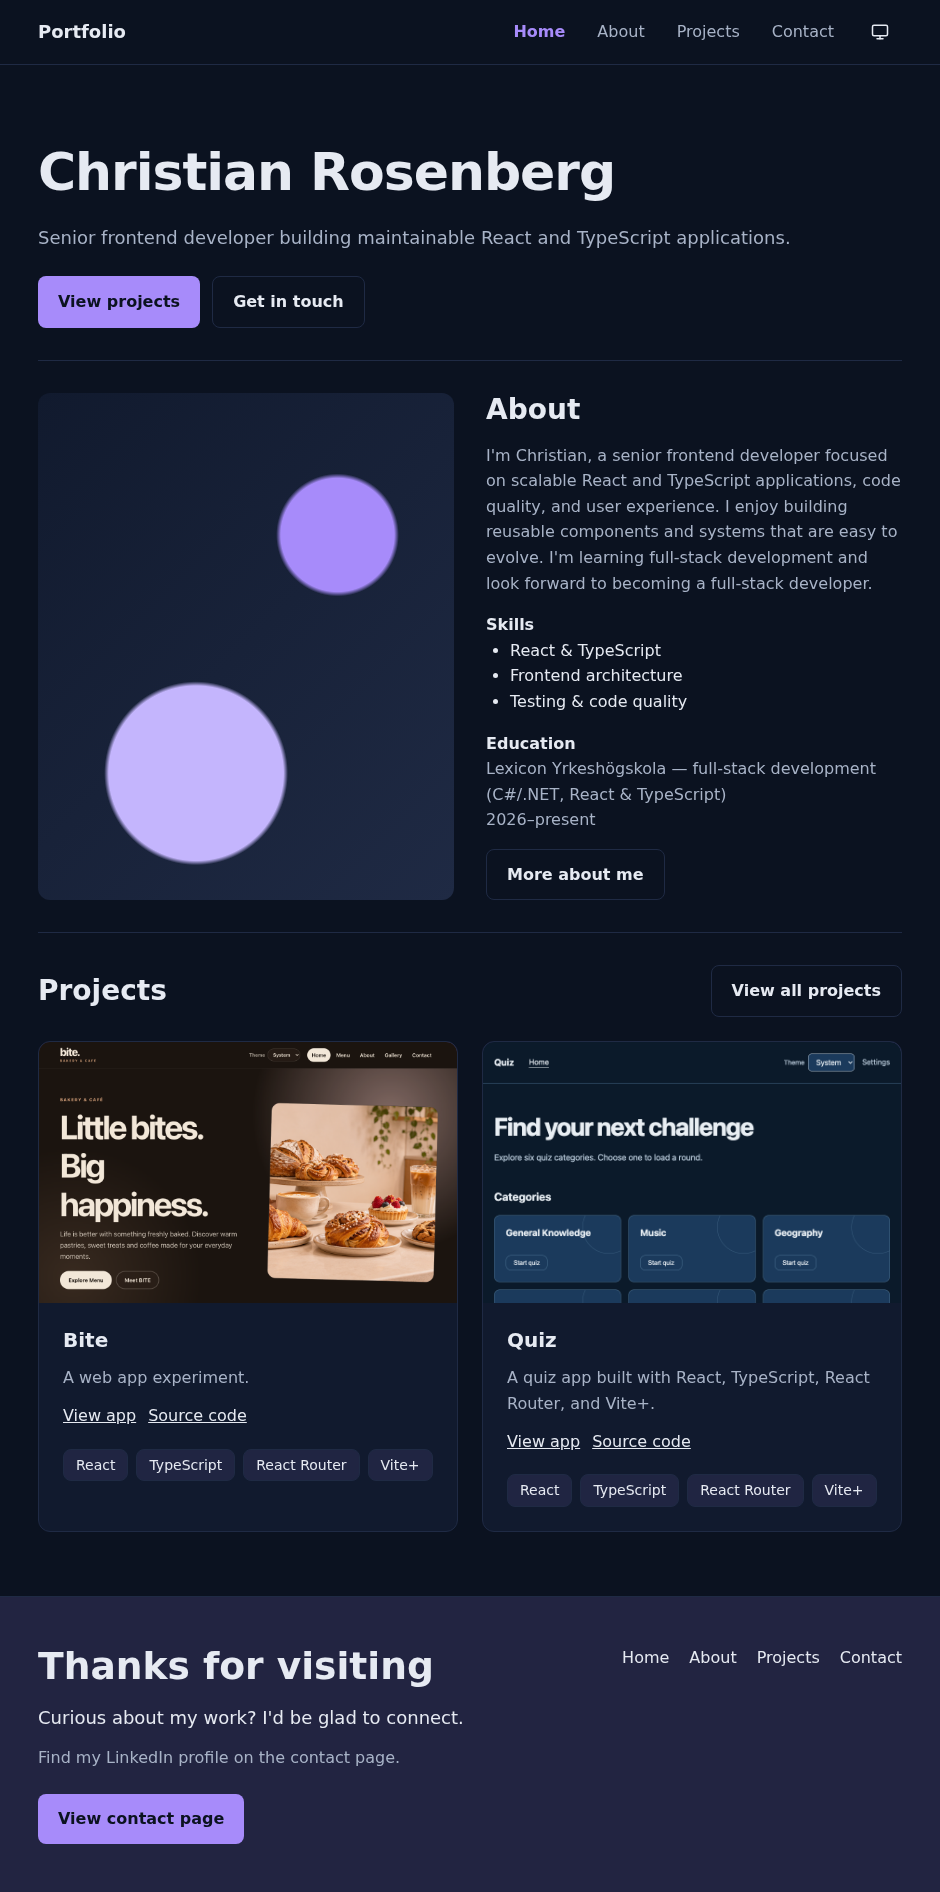
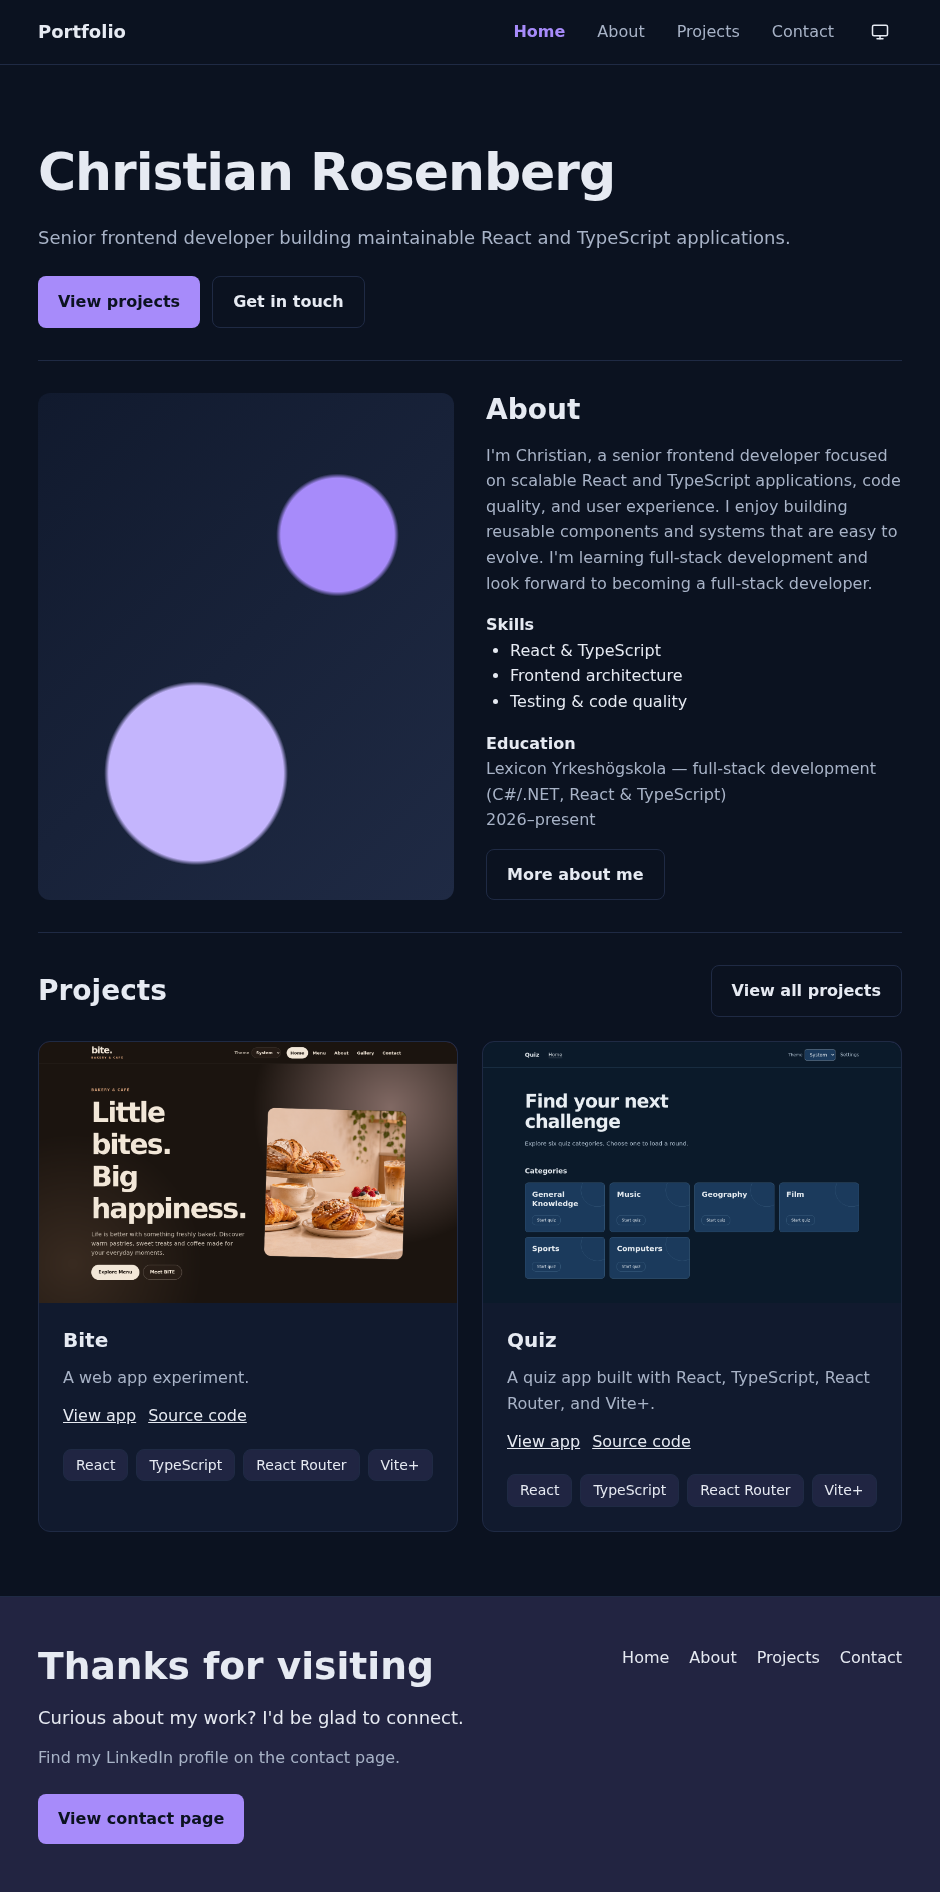
build: consolidate readiness checks into make ready

diff --git a/AGENTS.md b/AGENTS.md
@@ -30,4 +30,4 @@ release. Add a tool name to select part of the graph. For example, run
 
 <!--VITE PLUS END-->
 
-Before declaring work complete, run `make ready-docker`, `make ready` and ensure it passes and no files to commit.
+Before declaring work complete, run `make ready` and ensure it passes and no changes or files to commit.
